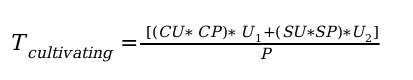
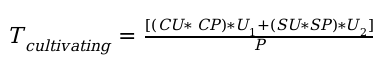
Replaced images for formulas Added Network farming text

Changed region(s): [[0.0, 0.2466, 0.9588, 0.7945]]

diff --git a/docs/concepts/new_token_geration_rules.md b/docs/concepts/new_token_geration_rules.md
@@ -1,5 +1,7 @@
 ## Token generation rules for ThreeFold farmers
 
+## Capacity Farming
+
 ### A Farmer earns tokens in 2 ways:
 
 * **Farming Tokens:** as a result of connecting server hardware to the ThreeFold Grid
@@ -7,7 +9,7 @@
 * **Cultivation Tokens:** as a result of their Farming Pool capacity being utilised by ThreeFold Grid Capacity users
 
 
-### Three are three types of farmers:
+### Three are three types of capacity farmers:
 
 * **Cooperative Farmers:** purchase a range of services from a ThreeFold cooperative up to and including, ThreeFold certified hardware, installation and -if available- location, power and connectivity
 
@@ -99,18 +101,12 @@ For network farming the same appplies.  The network needs to comply with minimal
 | Network speed (up and down0 | DIY | 5 Mbps/TB (assumes 100% storage usage). x 0.33 | 1Mbps/TB | 5Mbps/TB | 5Mbps/TB | 5Mbps/TB | 1Mbps/TB |
 |                             |Certified | 5Mbps/TB | 1Mbps/TB | 5Mbps/TB | 5Mbps/TB | 5Mbps/TB | 1Mbps/TB |
 
-Network farmers also need to provide IP space.  Network farmers can make IPv4 and IPv6 ip addresses available.  The requirement to become a network farmers include a minimum number of IPv4 addresses to be made available.  IPv4 addresses are scarse and cost money these days but are still the dominant addressing scheme on the internet.  Over time IPv6 will become more dominant.
 
-|  Network  Farmer | Item | Europe | Africa | North America | Australia | Asia | South America |
-| ---------------- | ---- | ------ | ------ | ------------- | --------- | ---- | ------------- |
-|                  |Available IP’s|  /20 (4096) | /22 (1024) | /22 (4096) | /20 (4096) | /20 (4096) | /22 (1024) |
-|                  |Network SLA   | 99.95% | 99.5% | 99.95% | 99.95% | 99.95% | 99.5% |
-|                  |Network speed | >10Gbps |  >1Gbps | >10Gbps | >10Gbps | >10Gbps | >1Gbps |
 
 
 ### Cultivation TFT calculation
 
-#### Cultivation TFT calculation formula (monthly)***
+#### Cultivation TFT calculation formula (monthly)
 
 ![](https://github.com/threefoldfoundation/info_grid/blob/development/docs/concepts/images/tcultivation.png)
 
@@ -143,3 +139,17 @@ There are two types of fees:
 ### Farming TFT release requirements
 
 Farming pool uptime as defined at time of registration on the TF Grid has to be met monthly in order to get the monthly farming tokens as defined under **Farming TFT calculation** section (see above)
+
+## Network Farming
+
+Network farmers are organisations or people that make public internet capacity available to capacity farmers that do not have access to (small or) large amounts of IP addresses.  Capacity farmers can exists anywhere with reliable power and some form of connectivity.  They do not have to become full service providers in terms of networking facilities.
+
+The capacity grid operates by using a private peer to peer network.  All participating TF farming nodes can communicate to any other node over a (number of) private network(s).  Network farmers provide bespoke, end user specific gatewway in and out of this private network that allows capacity consumers to expose their (web) services on the global (public) internet.  For this they need to have some compute capacity with little storage capabilities on which they host the Threefold Webgateway service creating bespoke and private per customer gateways to the outside world.  This is called network farming.
+
+Network farmers need to provide connectivity and  IP address space.  Network farmers can make IPv4 and IPv6 ip addresses available.  The requirements for a network farmers include a minimum number of IPv4 addresses and dedicated bandwidth to be made available.  
+
+|  Network  Farmer | Item | Europe | Africa | North America | Australia | Asia | South America |
+| ---------------- | ---- | ------ | ------ | ------------- | --------- | ---- | ------------- |
+|                  |Available IP’s|  /20 (4096) | /22 (1024) | /22 (4096) | /20 (4096) | /20 (4096) | /22 (1024) |
+|                  |Network SLA   | 99.95% | 99.5% | 99.95% | 99.95% | 99.95% | 99.5% |
+|                  |Network speed | >10Gbps |  >1Gbps | >10Gbps | >10Gbps | >10Gbps | >1Gbps |
